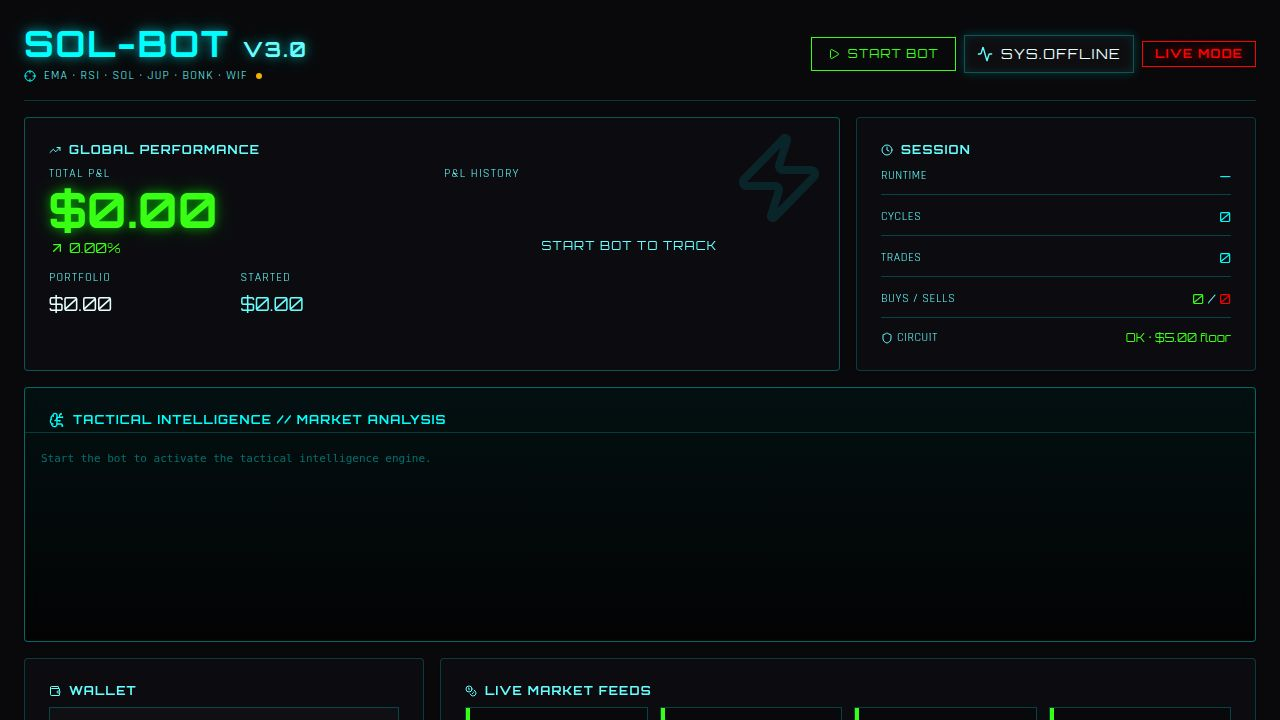
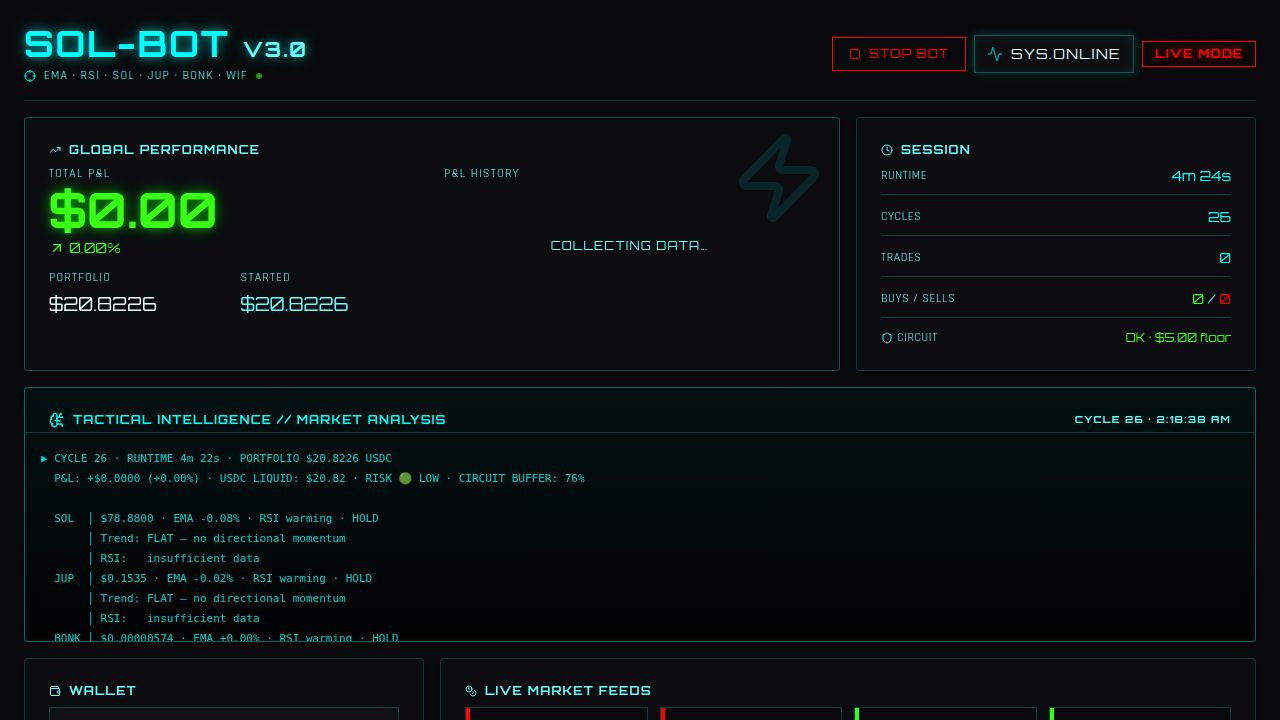
Update dashboard to use polling instead of SSE for live data
Replaced Server-Sent Events (SSE) with a 3-second polling mechanism in `dashboard.tsx` to fetch bot status, improving reliability against connection drops and proxy terminations. Unused SSE-related imports and state variables were removed. A `liveAge` state variable was introduced to visually indicate data freshness.

Replit-Commit-Author: Agent
Replit-Commit-Session-Id: 77ff1594-75f3-4682-b11e-bd3505de792f
Replit-Commit-Checkpoint-Type: full_checkpoint
Replit-Commit-Event-Id: 18d68597-67c1-4bbf-b8f8-2000880610ad
Replit-Commit-Screenshot-Url: https://storage.googleapis.com/screenshot-production-us-central1/ca8f4e70-6281-433e-8e83-d67847bd701c/77ff1594-75f3-4682-b11e-bd3505de792f/f24bDTb
Replit-Helium-Checkpoint-Created: true

diff --git a/artifacts/dashboard/src/pages/dashboard.tsx b/artifacts/dashboard/src/pages/dashboard.tsx
@@ -1,4 +1,4 @@
-import React, { useEffect, useState, useRef, useCallback } from "react";
+import React, { useEffect, useState, useRef } from "react";
 import { useGetBotSummary, useGetBotTrades, getGetBotSummaryQueryKey, getGetBotTradesQueryKey } from "@workspace/api-client-react";
 import { useQueryClient } from "@tanstack/react-query";
 import { useToast } from "@/hooks/use-toast";
@@ -75,13 +75,10 @@ export default function Dashboard() {
   const queryClient = useQueryClient();
   const { toast } = useToast();
 
-  // Real-time state via SSE (falls back to polling if SSE drops)
   const [state, setState] = useState<BotState | null>(null);
-  const [sseConnected, setSseConnected] = useState(false);
-  const sseRef = useRef<EventSource | null>(null);
+  const [liveAge, setLiveAge] = useState(0); // seconds since last successful fetch
 
-  // Polling fallback & summary/trades still use React Query
-  const { data: summary } = useGetBotSummary({ query: { refetchInterval: sseConnected ? 30000 : 5000, queryKey: getGetBotSummaryQueryKey() } });
+  const { data: summary } = useGetBotSummary({ query: { refetchInterval: 5000, queryKey: getGetBotSummaryQueryKey() } });
   const { data: trades, isLoading: tradesLoading } = useGetBotTrades({ query: { refetchInterval: 5000, queryKey: getGetBotTradesQueryKey() } });
 
   // Local state
@@ -96,47 +93,33 @@ export default function Dashboard() {
   const insightRef = useRef<HTMLDivElement>(null);
   const prevCycleRef = useRef(0);
 
-  // ── SSE connection ───────────────────────────────────────────────────────
-  const connectSSE = useCallback(() => {
-    if (sseRef.current) sseRef.current.close();
-    const es = new EventSource("/api/bot/stream");
-    sseRef.current = es;
-    es.onopen = () => setSseConnected(true);
-    es.onmessage = (e) => {
+  // ── 3-second polling for bot state ───────────────────────────────────────
+  useEffect(() => {
+    const poll = async () => {
       try {
-        const data = JSON.parse(e.data) as BotState;
+        const r = await fetch("/api/bot/status");
+        if (!r.ok) return;
+        const data = await r.json() as BotState;
         setState(data);
+        setLiveAge(0);
         if (data.cycle !== prevCycleRef.current) {
           prevCycleRef.current = data.cycle;
           setBlink(true);
-          setTimeout(() => setBlink(false), 300);
+          setTimeout(() => setBlink(false), 400);
           setPnlHistory(prev => [...prev, { t: Date.now(), pnl: data.pnl_usd }].slice(-60));
         }
       } catch {}
     };
-    es.onerror = () => {
-      setSseConnected(false);
-      es.close();
-      setTimeout(connectSSE, 4000);
-    };
+    poll();
+    const id = setInterval(poll, 3000);
+    return () => clearInterval(id);
   }, []);
 
+  // ── Staleness ticker ─────────────────────────────────────────────────────
   useEffect(() => {
-    connectSSE();
-    return () => sseRef.current?.close();
-  }, [connectSSE]);
-
-  // Fallback poll when SSE not connected
-  useEffect(() => {
-    if (sseConnected) return;
-    const id = setInterval(async () => {
-      try {
-        const r = await fetch("/api/bot/status");
-        if (r.ok) setState(await r.json());
-      } catch {}
-    }, 5000);
+    const id = setInterval(() => setLiveAge(a => a + 1), 1000);
     return () => clearInterval(id);
-  }, [sseConnected]);
+  }, []);
 
   // ── Runtime counter ──────────────────────────────────────────────────────
   useEffect(() => {
@@ -224,7 +207,7 @@ export default function Dashboard() {
             <p className="text-muted-foreground uppercase tracking-widest text-xs mt-1 flex items-center gap-2">
               <Crosshair className="w-3 h-3 text-primary" />
               EMA · RSI · SOL · JUP · BONK · WIF
-              <span className={`w-1.5 h-1.5 rounded-full ${sseConnected ? "bg-[#39ff14] animate-pulse" : "bg-yellow-500"}`} title={sseConnected ? "Live stream connected" : "Polling fallback"} />
+              <span className={`w-1.5 h-1.5 rounded-full ${liveAge < 6 ? "bg-[#39ff14] animate-pulse" : liveAge < 15 ? "bg-yellow-500" : "bg-destructive"}`} title={`Data updated ${liveAge}s ago`} />
             </p>
           </div>
           <div className="flex items-center gap-2 flex-wrap">
